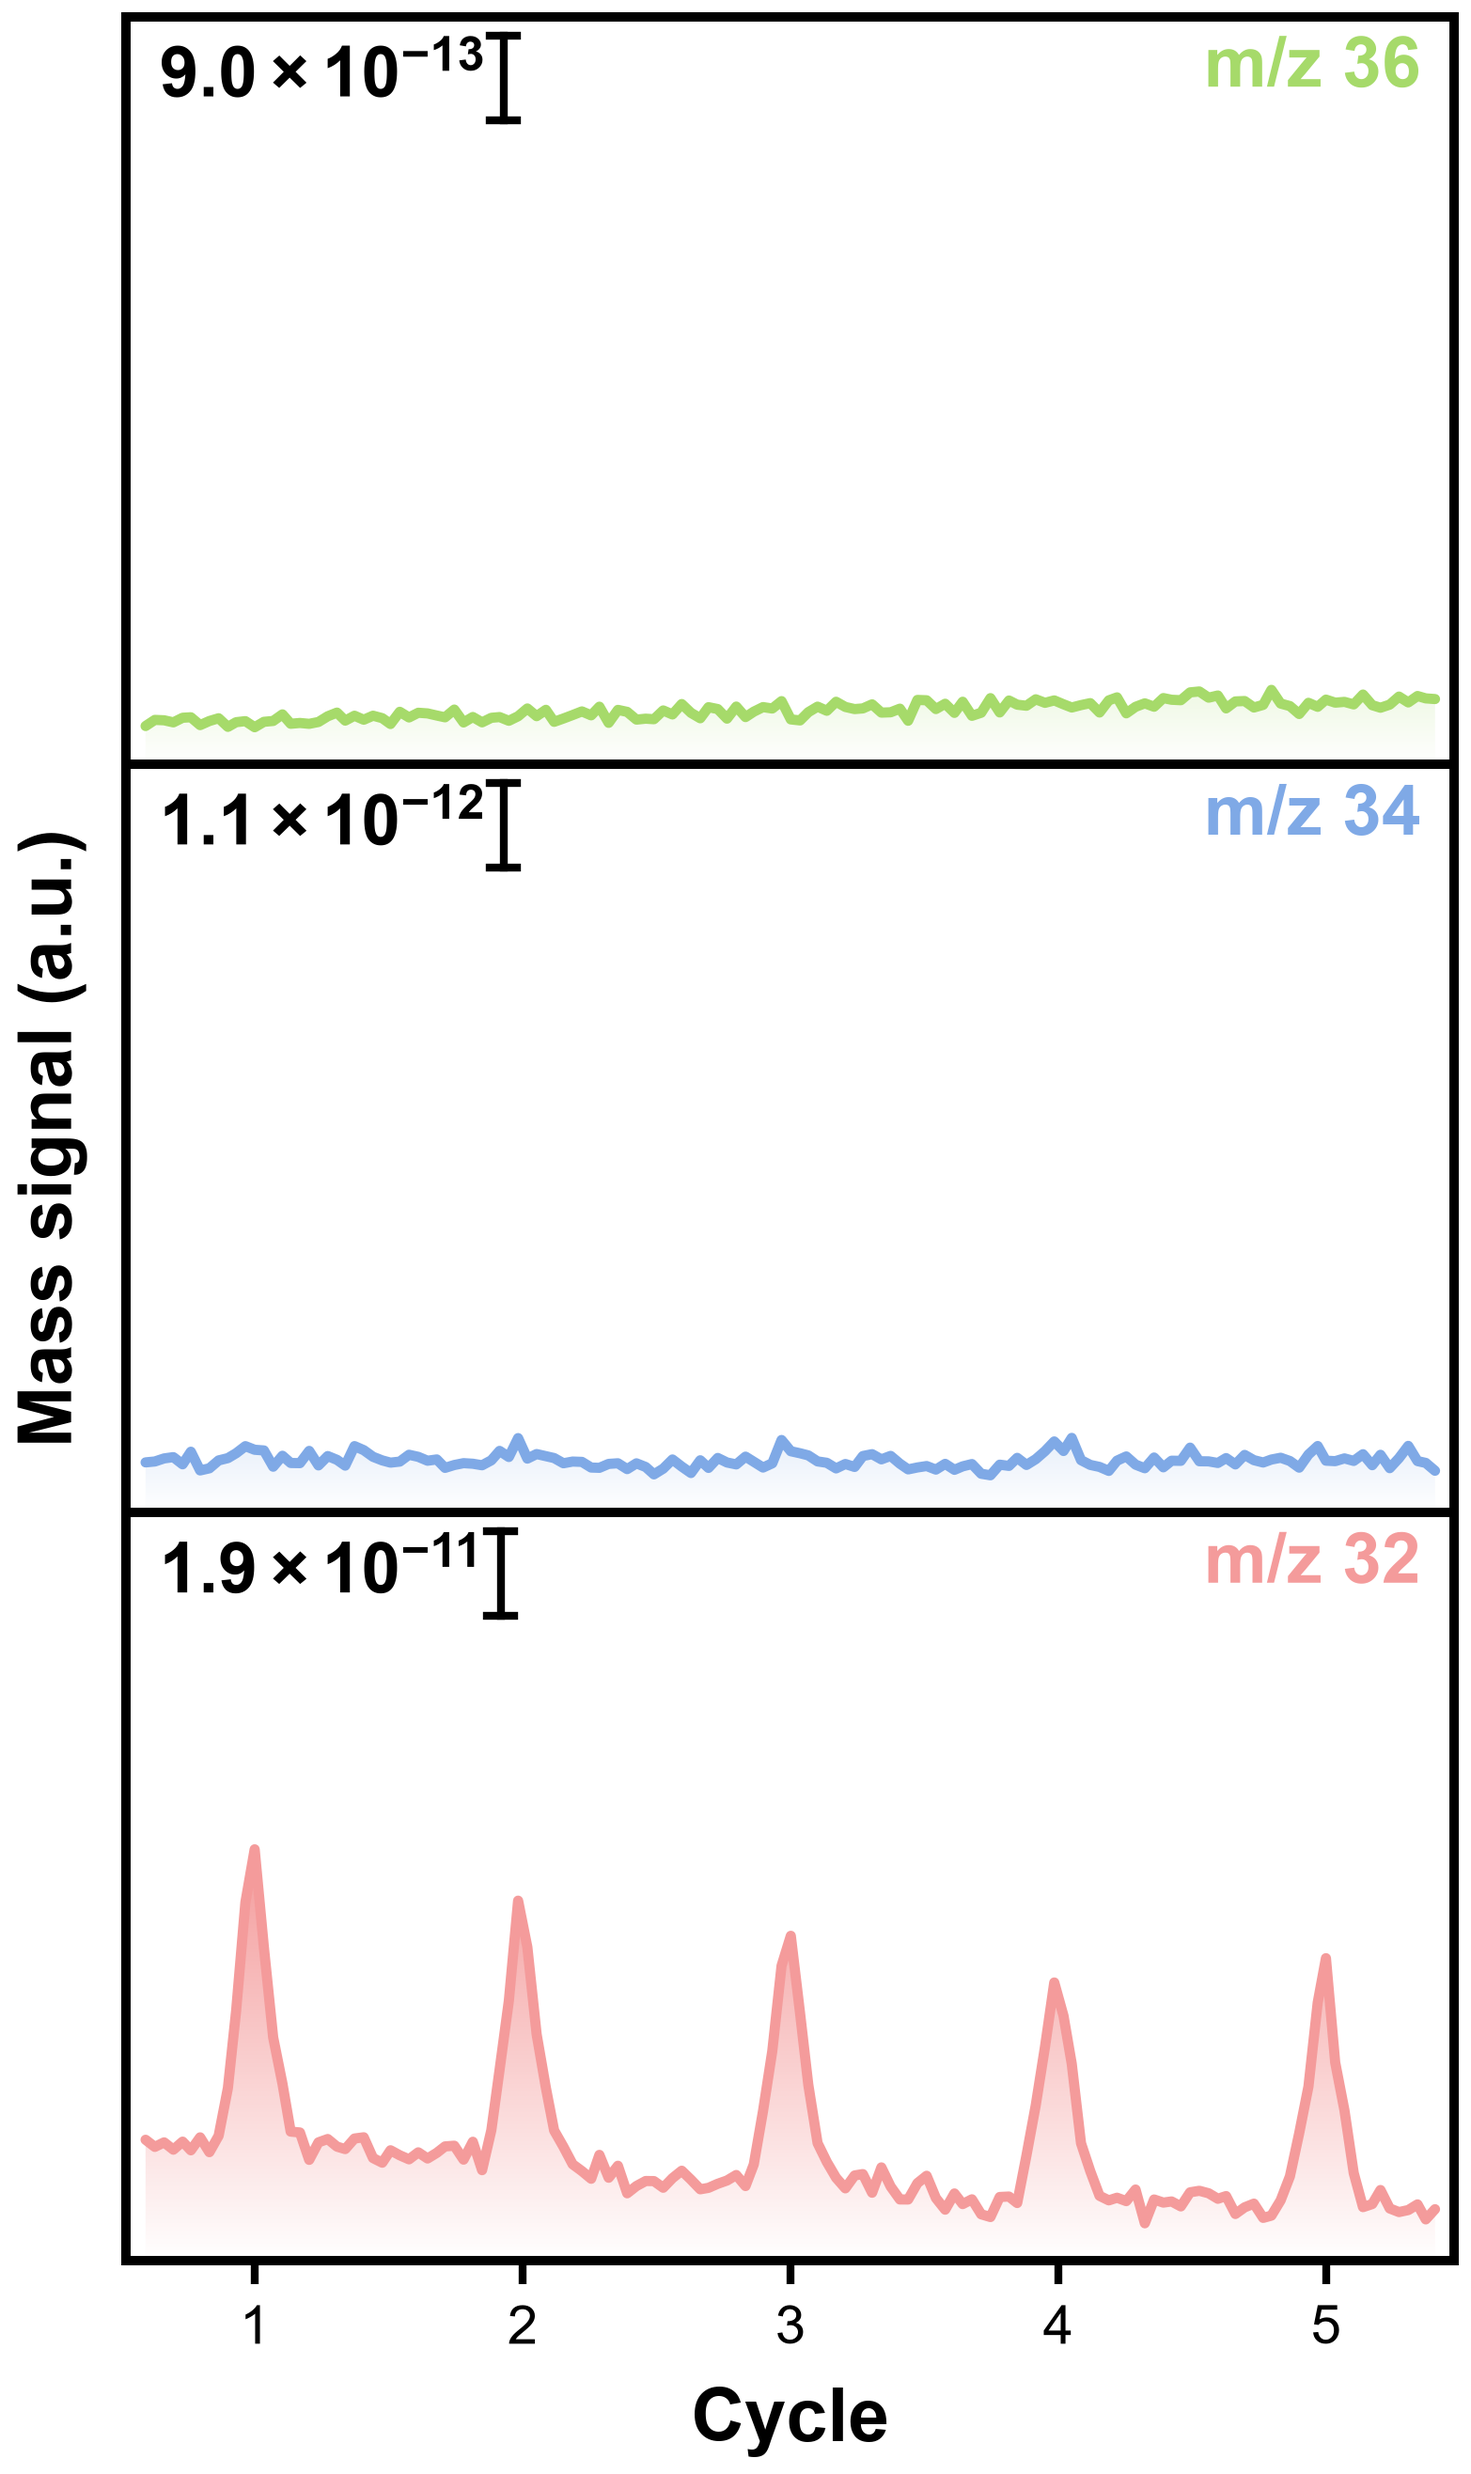
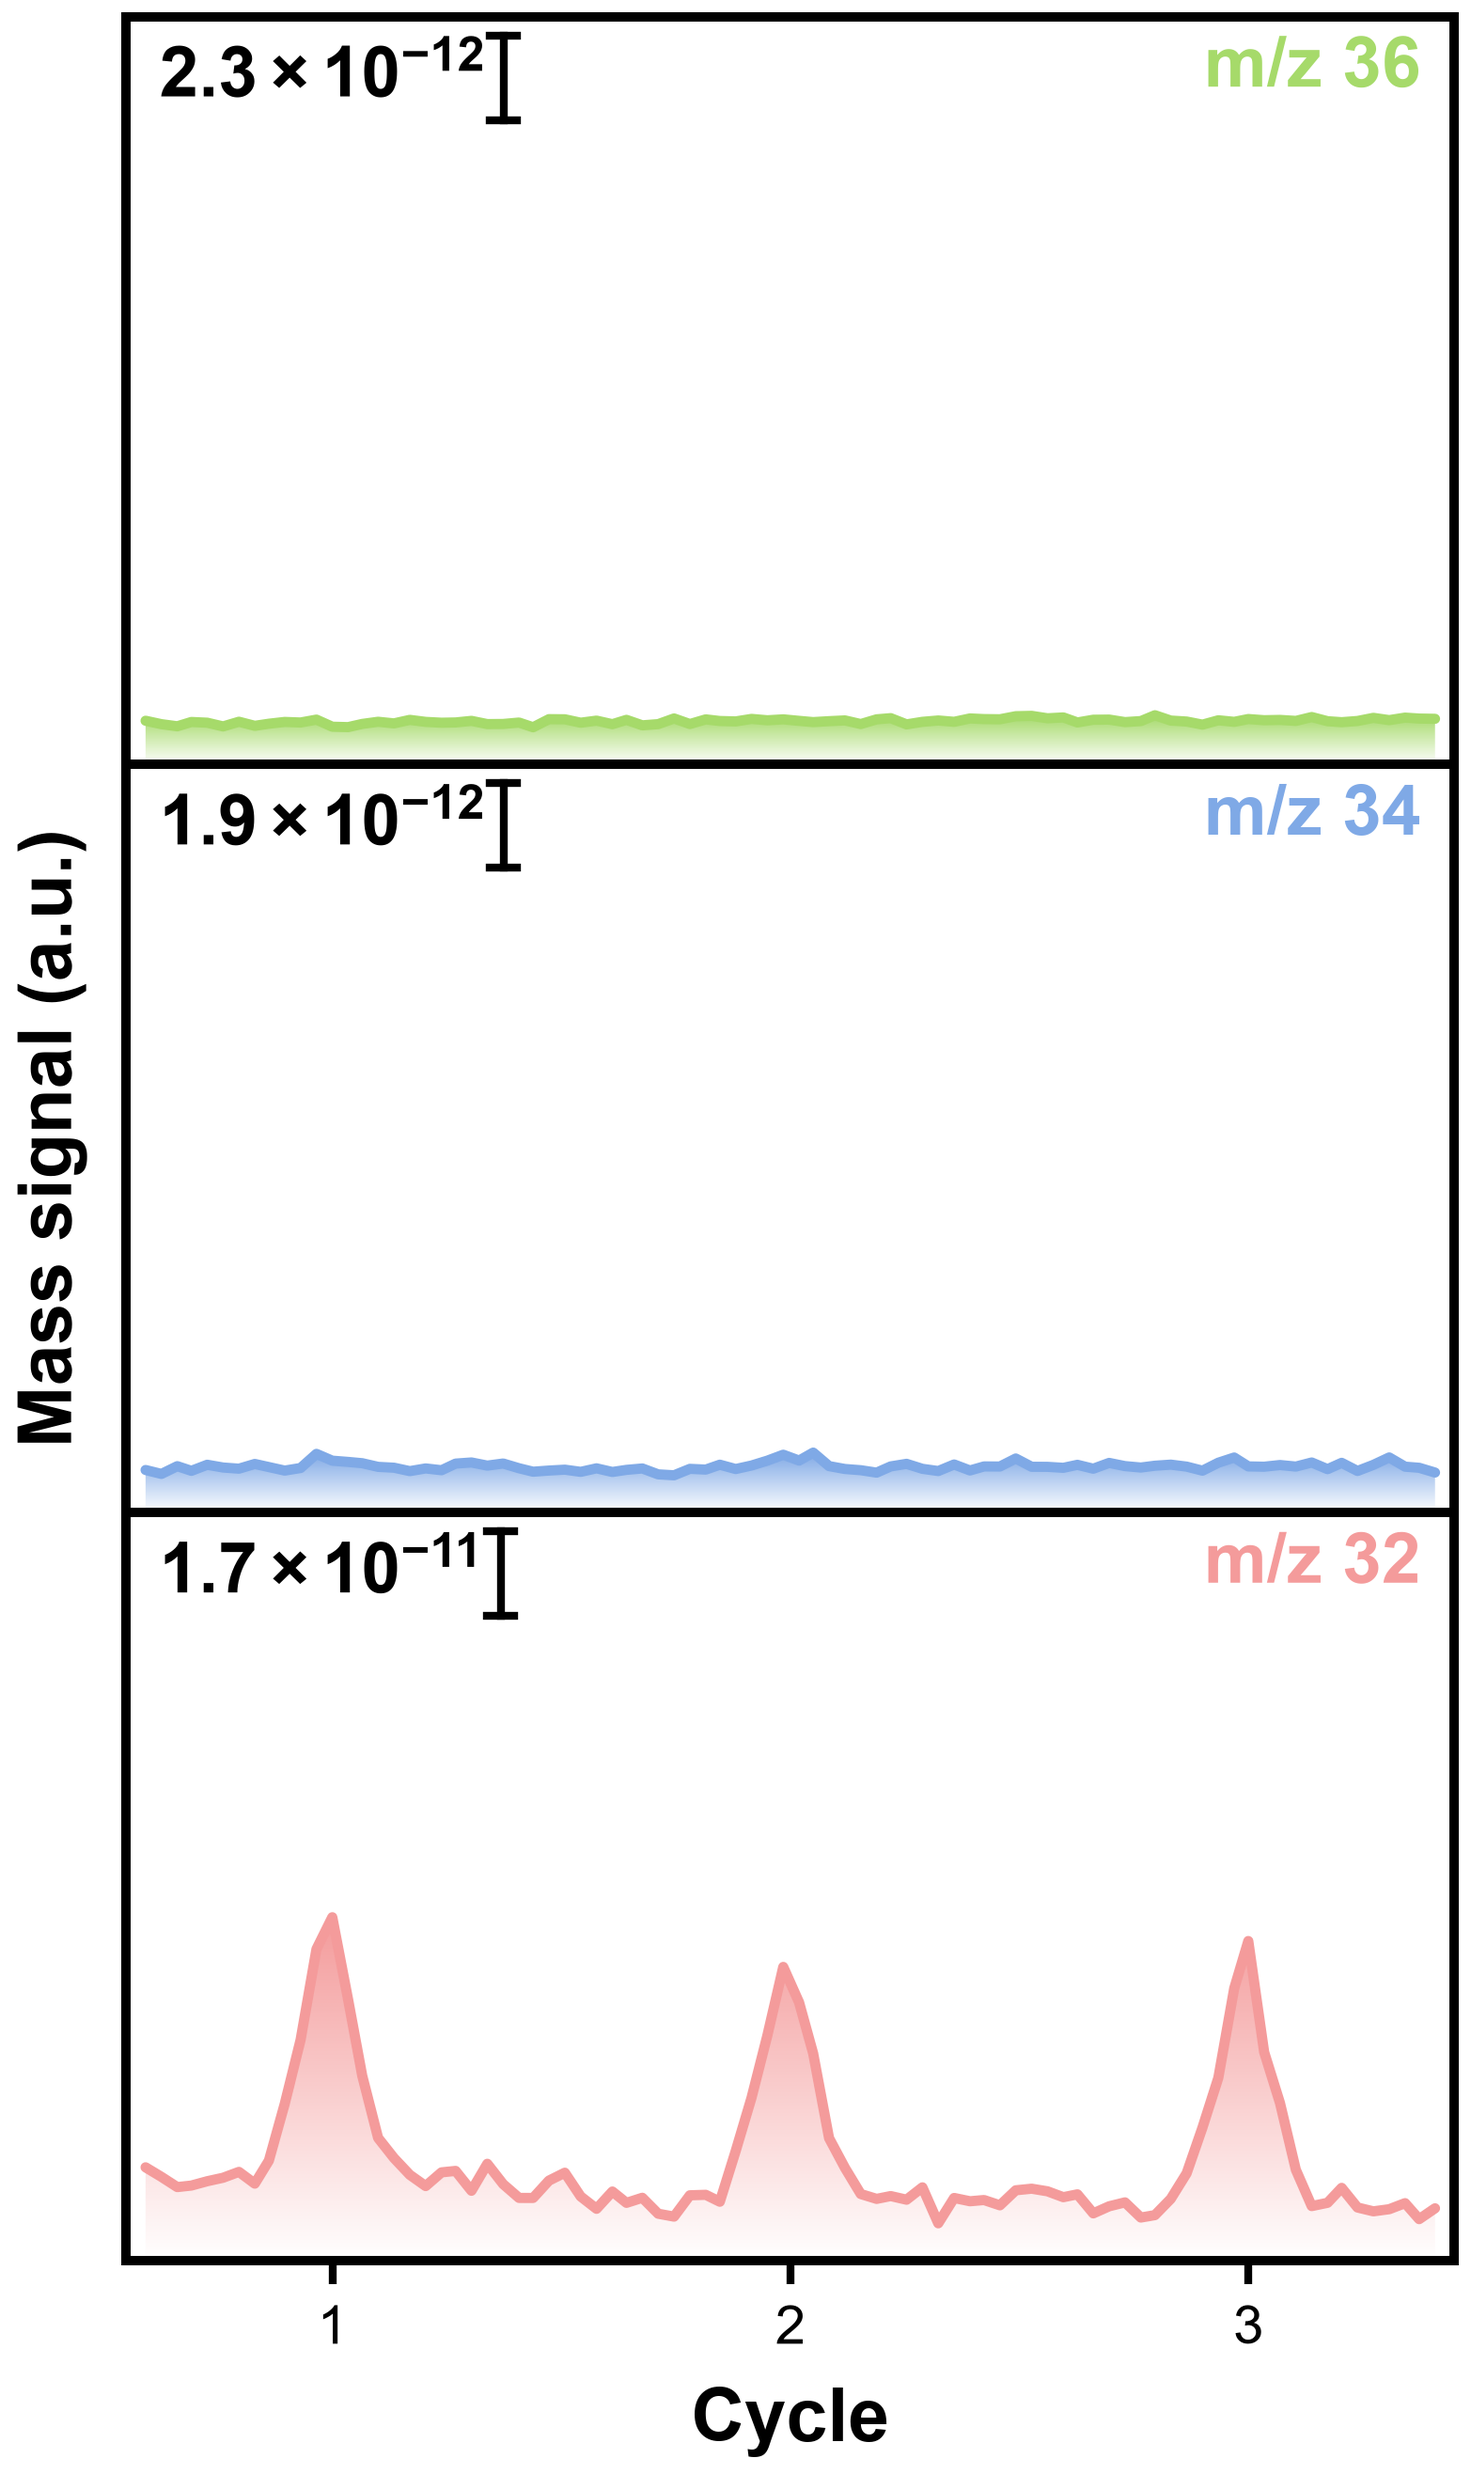
共用比例尺 + 末尾规整峰选取；默认画 3 个峰
- scale_bar.shared: 同通道比例尺统一成所有样品里最大的一段，三张图的 m/z 32/34/36
  比例尺数值一致，峰高可以直接横向比
- peaks.require_regular / gap_tolerance: 在识别到的峰里取最靠后一段间距一致的 N 个峰，
  末尾不规整时在结果表说明跳过了几个
- peaks.count 默认改成 3；新增 --count N 临时覆盖
- 渐变填充的顶端改跟随各自曲线的最高点，共用比例尺时不会出现上方空白渐变
- outputs/20261013-dems_0 按新的默认值重新生成

diff --git a/dems_analysis.py b/dems_analysis.py
@@ -208,6 +208,40 @@ def find_peaks(time, v32, cfg):
     return picked, resid
 
 
+def select_peaks(peaks, time, count, cfg):
+    """从识别到的峰里取 count 个：优先取末尾一段间距规整的。
+
+    返回 (峰索引列表, 警告或 None)。
+    """
+    peaks = list(peaks)
+    if len(peaks) <= count:
+        return peaks, None
+    if not bool(cfg["peaks"].get("require_regular", True)):
+        return peaks[-count:], None
+
+    tol = float(cfg["peaks"].get("gap_tolerance", 1.3))
+    best = None
+    for i in range(len(peaks) - count + 1):
+        window = peaks[i:i + count]
+        gaps = np.diff(time[window])
+        if gaps.min() <= 0:
+            continue
+        if gaps.max() / gaps.min() <= tol:
+            best = window  # 越靠后的窗口会覆盖前面的，最后留下最晚的一段
+    if best is not None:
+        if best[-1] != peaks[-1]:
+            skipped = len(peaks) - peaks.index(best[-1]) - 1
+            return best, ("末尾 %d 个峰间距不规整，已取最后一段间距一致的 %d 个峰"
+                          "（%.0f–%.0f s）" % (skipped, count,
+                                              time[best[0]], time[best[-1]]))
+        return best, None
+
+    window = peaks[-count:]
+    gaps = np.diff(time[window])
+    return window, ("没找到间距一致的 %d 个峰（末尾一段 %.0f–%.0f s），仍按最后 %d 个出图"
+                    % (count, gaps.min(), gaps.max(), count))
+
+
 def cycle_axis(time, centers):
     c0, c1 = centers[0], centers[-1]
     return 1.0 + (len(centers) - 1.0) * (time - c0) / (c1 - c0)
@@ -273,7 +307,11 @@ def analyze_file(path, cfg):
         if len(peaks) < count:
             warnings.append("只识别到 %d 个峰，按 %d 个出图" % (len(peaks), len(peaks)))
             count = len(peaks)
-        centers = time[peaks[-count:]]
+        chosen, hint = select_peaks(peaks, time, count, cfg)
+        if hint:
+            warnings.append(hint)
+        centers = time[chosen]
+        count = len(centers)
         pad = float(cfg["peaks"]["pad_seconds"])
         t0, t1 = centers[0] - pad, centers[-1] + pad
         if t0 < time[0]:
@@ -312,7 +350,7 @@ def analyze_file(path, cfg):
         mant, exp = bar_number(value, int(cfg["scale_bar"]["decimals"]))
 
         stats[mz] = {"min": lo, "max": hi, "range": hi - lo,
-                     "ylim": (ymin, ymax)}
+                     "total": total, "ylim": (ymin, ymax)}
         bars[mz] = {"mant": mant, "exp": exp,
                     "text": fmt_bar(mant, exp,
                                     int(cfg["scale_bar"]["decimals"]))}
@@ -354,7 +392,32 @@ def analyze_dir(input_dir, cfg):
     order = {name: i for i, name in enumerate((cfg.get("samples") or {}).keys())}
     records.sort(key=lambda r: (order.get(r["file"], 10 ** 6), r["file"]))
     _dedupe_names(records)
+    share_scales(records, cfg)
     return records, errors
+
+
+def share_scales(records, cfg):
+    """所有样品共用同一段比例尺：同通道取各样品里最大的一段。
+
+    这样三个样品的 m/z 32 比例尺数值相同、34 相同、36 相同，可以直接比峰高。
+    """
+    if not (cfg.get("scale_bar") or {}).get("shared"):
+        return
+    chans = [int(c["mz"]) for c in cfg["channels"]]
+    bottom = float(cfg["layout"]["data_bottom"])
+    height = float(cfg["scale_bar"]["height"])
+    decimals = int(cfg["scale_bar"]["decimals"])
+    shared = {mz: max(r["stats"][mz]["total"] for r in records) for mz in chans}
+    for rec in records:
+        for mz in chans:
+            st = rec["stats"][mz]
+            total = shared[mz]
+            ymin = st["min"] - bottom * total
+            st["total"] = total
+            st["ylim"] = (ymin, ymin + total)
+            mant, exp = bar_number(height * total, decimals)
+            rec["bars"][mz] = {"mant": mant, "exp": exp,
+                               "text": fmt_bar(mant, exp, decimals)}
 
 
 def _dedupe_names(records):

diff --git a/dems_plot.py b/dems_plot.py
@@ -30,8 +30,12 @@ def setup_rc(cfg):
     plt.rcParams["axes.unicode_minus"] = False
 
 
-def gradient_fill(ax, x, y, color, ymin, ymax, x0, x1, data_top):
-    """曲线颜色 → 白色，自上而下渐变，填到该层底边。"""
+def gradient_fill(ax, x, y, color, ymin, ymax, x0, x1):
+    """曲线颜色 → 白色，自上而下渐变，填到该层底边。
+
+    渐变顶端跟着这条曲线自己的最高点走，所以多个样品共用同一段比例尺时，
+    曲线矮的样品也是峰尖处最白，不会出现上方一片空白渐变。
+    """
     poly = ax.fill_between(x, ymin, y, color="none", linewidth=0)
     path = poly.get_paths()[0]
     rgb = np.array(to_rgb(color))
@@ -39,7 +43,9 @@ def gradient_fill(ax, x, y, color, ymin, ymax, x0, x1, data_top):
     t = np.linspace(0.0, 1.0, n)[:, None, None]
     grad_rgb = (1.0 - t) + t * rgb.reshape(1, 1, 3)
     grad = np.concatenate([grad_rgb, np.ones((n, 1, 1))], axis=2)
-    y_full = ymin + data_top * (ymax - ymin)
+    y_full = float(np.nanmax(y))
+    if not np.isfinite(y_full) or y_full <= ymin:
+        y_full = ymin + 1e-6 * (ymax - ymin)
     im = ax.imshow(grad, extent=[x0, x1, ymin, y_full], aspect="auto",
                    origin="lower", interpolation="bilinear", zorder=1)
     im.set_clip_path(path, transform=ax.transData)
@@ -79,8 +85,7 @@ def draw_box(ax, x, y, channel, ylim, bar, cfg, show_numbers, nticks):
     x_pad = float(layout["x_pad"]) * (x.max() - x.min())
     x0, x1 = x.min() - x_pad, x.max() + x_pad
 
-    gradient_fill(ax, x, y, color, ymin, ymax, x0, x1,
-                  float(layout["data_top"]))
+    gradient_fill(ax, x, y, color, ymin, ymax, x0, x1)
 
     ax.plot(x, y, color=color, linewidth=1.3, solid_joinstyle="round",
             solid_capstyle="round", zorder=3)

diff --git a/dems_pipeline.py b/dems_pipeline.py
@@ -68,10 +68,14 @@ def main(argv=None):
                         help="指定取段（秒），如 4750:5600；给了就不用取末 N 峰的规则")
     parser.add_argument("--window-ms", default=None, metavar="T0:T1",
                         help="同上，单位毫秒（Origin 里的时间轴），如 4750000:5600000")
+    parser.add_argument("--count", type=int, default=None,
+                        help="取几个峰（覆盖 config.yaml 的 peaks.count），如 --count 3")
     parser.add_argument("--skip-plot", action="store_true", help="只出表，不出图")
     args = parser.parse_args(argv)
 
     cfg = load_config(os.path.abspath(args.config))
+    if args.count:
+        cfg.setdefault("peaks", {})["count"] = int(args.count)
 
     window = None
     if args.window_ms:

diff --git a/outputs/20261013-dems_0/数据对比.md b/outputs/20261013-dems_0/数据对比.md
@@ -2,9 +2,9 @@
 
 | 样品 | 源文件 | m/z 32 峰数 | 取用峰数 | 取段 (s) | 比例尺 m/z 36 | 比例尺 m/z 34 | 比例尺 m/z 32 |
 |---|---|---:|---:|---|---|---|---|
-| Ru | ru-File244.csv | 18 | 3 | 6612–7352 | 7.1 × 10^-13 | 1.6 × 10^-12 | 1.0 × 10^-11 |
-| 3% | 3%-File245.csv | 8 | 5 | 2665–3926 | 9.0 × 10^-13 | 1.1 × 10^-12 | 1.9 × 10^-11 |
-| 4.5% | 4.5%-File247.csv | 12 | 5 | 3691–4953 | 2.4 × 10^-12 | 2.2 × 10^-12 | 1.8 × 10^-11 |
+| Ru | ru-File244.csv | 18 | 3 | 6612–7352 | 2.3 × 10^-12 | 1.9 × 10^-12 | 1.7 × 10^-11 |
+| 3% | 3%-File245.csv | 8 | 3 | 3186–3926 | 2.3 × 10^-12 | 1.9 × 10^-12 | 1.7 × 10^-11 |
+| 4.5% | 4.5%-File247.csv | 12 | 3 | 4212–4953 | 2.3 × 10^-12 | 1.9 × 10^-12 | 1.7 × 10^-11 |
 
 说明：
 
